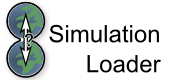
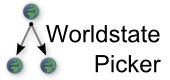
Minor fixes to prepare the WorldState picker for production use
Replaced WorldState picker thumbnail with the correct one

diff --git a/worldstate_picker/js/main.js b/worldstate_picker/js/main.js
@@ -1,13 +1,14 @@
 var api = null;
 var layout = { };
 /** @const */
-var treeCfg = {
+treeCfg = {
     colors: {
         path: '#E6677A',
         leaf: '#E9E9E9',
         nonLeaf: '#F2919D',
         edge: '#aaaaaa'
     },
+    orientation: 'top',
     sizes: {
         nodeWidth: 108,
         levelDistance: 54
@@ -40,7 +41,7 @@ function createWorldStateTree(containerName, simulation) {
             var st = new $jit.ST({
                 //id of viz container element
                 injectInto: containerName,
-                orientation: 'top',
+                orientation: treeCfg.orientation,
                 levelsToShow: 5,
                 //set animation transition type
                 transition: $jit.Trans.Quart.easeInOut,

diff --git a/worldstate_picker/index.html b/worldstate_picker/index.html
@@ -7,9 +7,9 @@
     <script src="//code.jquery.com/jquery-2.0.3.min.js" type="text/javascript"></script>
     <script src="//netdna.bootstrapcdn.com/bootstrap/3.0.3/js/bootstrap.min.js" type="text/javascript"></script>
     <script src="js/wsrapi.js" type="text/javascript"></script>
-    <script src="js/wirecloud.js" type="text/javascript"></script>
     <script src="js/jit-yc.js" type="text/javascript"></script>
     <script src="js/main.js" type="text/javascript"></script>
+    <script src="js/wirecloud.js" type="text/javascript"></script>
 </head>
 <body>
 <div id="worldstate-tree"></div>

diff --git a/worldstate_picker/js/wirecloud.js b/worldstate_picker/js/wirecloud.js
@@ -8,6 +8,7 @@ if (typeof MashupPlatform === 'undefined') {
 } else {
     var applyPreferences = function () {
         api = new WorldStateRepository(MashupPlatform.prefs.get('api'));
+        treeCfg.orientation = MashupPlatform.prefs.get('orientation');
     };
 
     MashupPlatform.prefs.registerCallback(applyPreferences);
